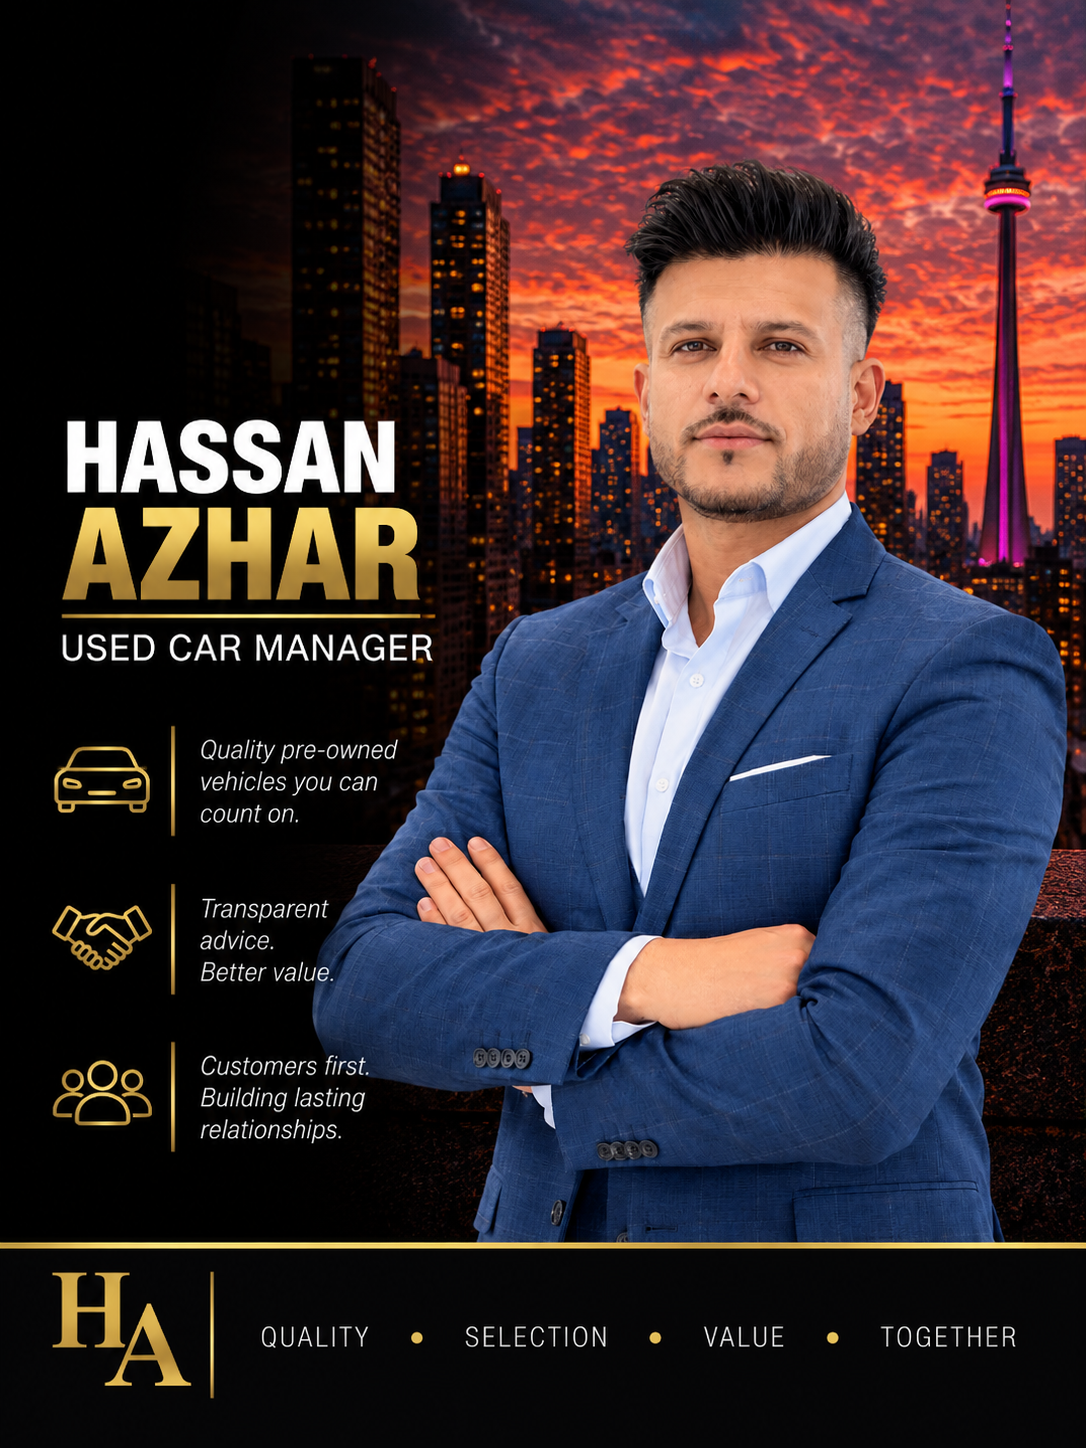
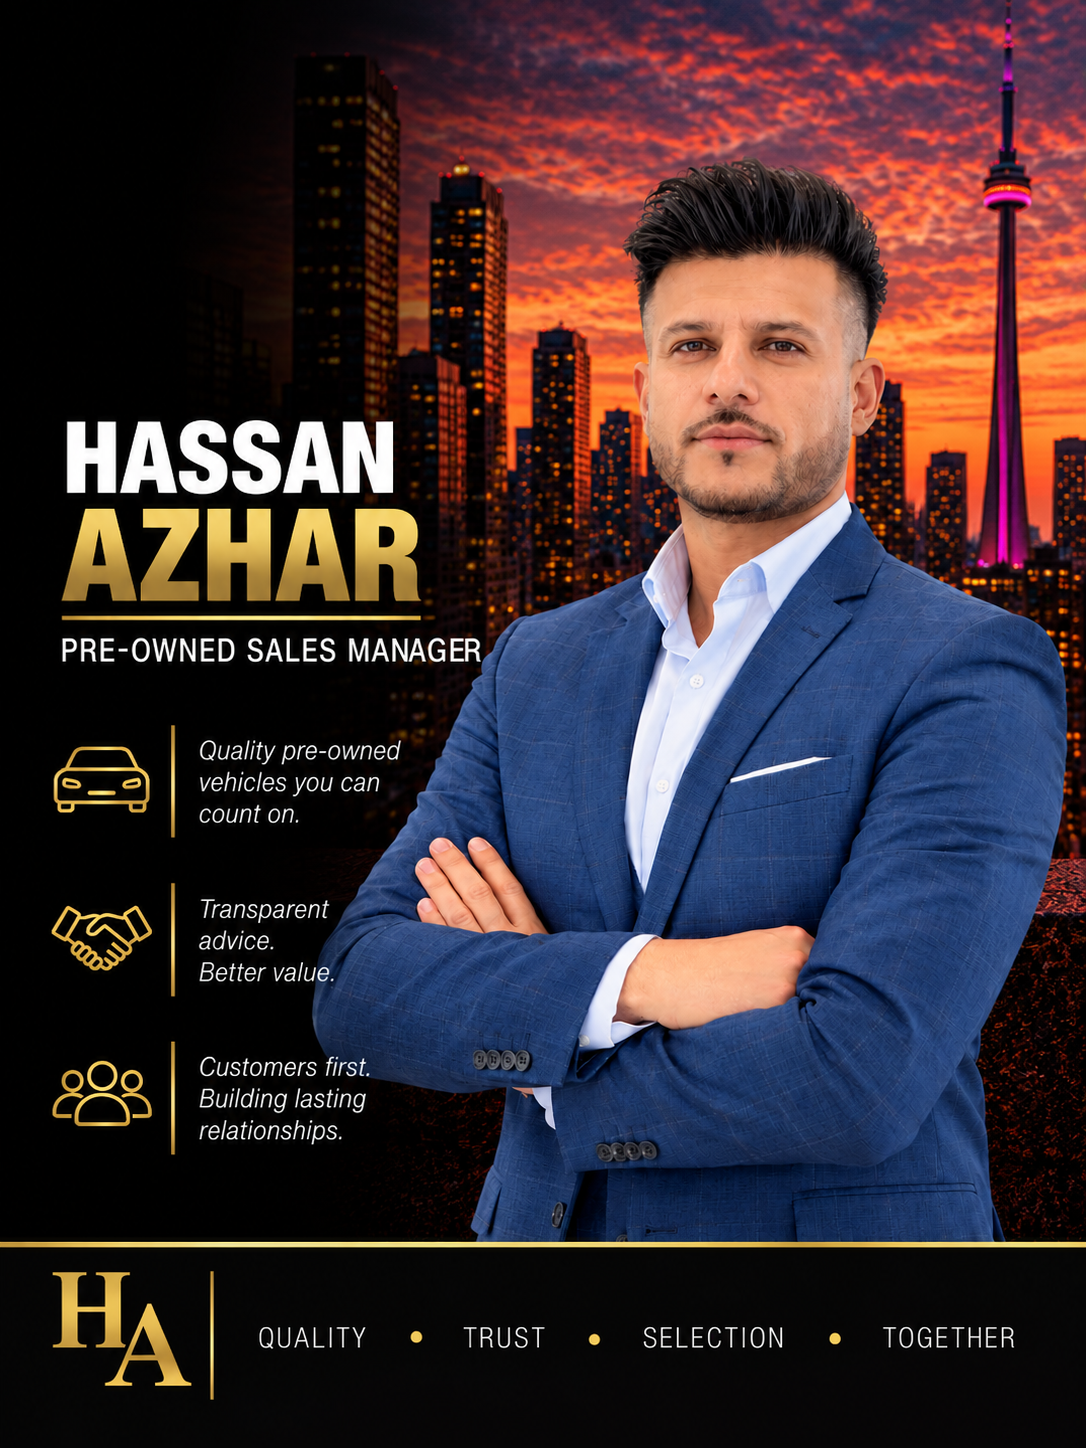
Hassan Azhar is Pre-Owned Sales Manager; new flyer
Title corrected from Used Car Manager to Pre-Owned Sales Manager, per a
replacement flyer. Same person, same desk -- the first flyer carried the
older wording.

Photo replaced with the new flyer. The png and the webp were BOTH
regenerated: per Decisions.md, swapping only the png silently keeps
serving the stale webp, since the pages reference the webp exclusively.
New flyer is 1086x1448, the house 3:4 again, so the 800px webp lands on
800x1067 with no crop -- unchanged from the previous photo's geometry,
so no row-stretch risk.

His position is untouched: still second in 02 — Sales Management, after
Mitchell Cadesky. Roster still 35 across 12 departments.

team-edealer.* regenerated with node build-edealer.mjs; a grep for the
old title across every .html now returns nothing.

diff --git a/team-edealer.embed.html b/team-edealer.embed.html
@@ -78,7 +78,7 @@
               <div class="gmc-img"><img src="https://golden-mile-team-page.pages.dev/team-photos/Hassan%20Azhar.webp" alt="Hassan Azhar" loading="lazy" width="800" height="1067"></div>
               <div class="gmc-details">
                 <div class="gmc-name">Hassan Azhar</div>
-                <div class="gmc-title">Used Car Manager</div>
+                <div class="gmc-title">Pre-Owned Sales Manager</div>
               <ul class="gmc-contact">
                 <li><span class="gmc-ico gmc-ico-phone"></span><span>Ext. 2308</span></li>
                 <li><span class="gmc-ico gmc-ico-mail"></span><a href="mailto:hassan@goldenmilechrysler.ca">hassan@goldenmilechrysler.ca</a></li>

diff --git a/team-edealer.html b/team-edealer.html
@@ -78,7 +78,7 @@
               <div class="gmc-img"><img src="https://golden-mile-team-page.pages.dev/team-photos/Hassan%20Azhar.webp" alt="Hassan Azhar" loading="lazy" width="800" height="1067"></div>
               <div class="gmc-details">
                 <div class="gmc-name">Hassan Azhar</div>
-                <div class="gmc-title">Used Car Manager</div>
+                <div class="gmc-title">Pre-Owned Sales Manager</div>
               <ul class="gmc-contact">
                 <li><span class="gmc-ico gmc-ico-phone"></span><span>Ext. 2308</span></li>
                 <li><span class="gmc-ico gmc-ico-mail"></span><a href="mailto:hassan@goldenmilechrysler.ca">hassan@goldenmilechrysler.ca</a></li>

diff --git a/team-d2c.html b/team-d2c.html
@@ -94,7 +94,7 @@
           <div class="staff-photo-wrap"><img src="https://golden-mile-team-page.pages.dev/team-photos/Hassan%20Azhar.webp" alt="Hassan Azhar" class="staff-photo"></div>
           <div class="staff-info">
             <h3 class="staff-name">Hassan Azhar</h3>
-            <p class="staff-role">Used Car Manager</p>
+            <p class="staff-role">Pre-Owned Sales Manager</p>
             <hr class="staff-divider">
             <p class="staff-contact"><i class="fas fa-phone icon"></i>Ext. 2308</p>
             <p class="staff-contact"><i class="fas fa-envelope icon"></i><a href="mailto:hassan@goldenmilechrysler.ca">hassan@goldenmilechrysler.ca</a></p>

diff --git a/team-edealer.local.html b/team-edealer.local.html
@@ -87,7 +87,7 @@
               <div class="gmc-img"><img src="team-photos/Hassan%20Azhar.webp" alt="Hassan Azhar" loading="lazy" width="800" height="1067"></div>
               <div class="gmc-details">
                 <div class="gmc-name">Hassan Azhar</div>
-                <div class="gmc-title">Used Car Manager</div>
+                <div class="gmc-title">Pre-Owned Sales Manager</div>
               <ul class="gmc-contact">
                 <li><span class="gmc-ico gmc-ico-phone"></span><span>Ext. 2308</span></li>
                 <li><span class="gmc-ico gmc-ico-mail"></span><a href="mailto:hassan@goldenmilechrysler.ca">hassan@goldenmilechrysler.ca</a></li>

diff --git a/team.html b/team.html
@@ -284,7 +284,7 @@
         <div class="staff-photo-wrap"><img src="team-photos/Hassan%20Azhar.webp" alt="Hassan Azhar" class="staff-photo"></div>
         <div class="staff-info">
           <h3 class="staff-name">Hassan Azhar</h3>
-          <p class="staff-role">Used Car Manager</p>
+          <p class="staff-role">Pre-Owned Sales Manager</p>
           <hr class="staff-divider">
           <p class="staff-contact"><i class="fas fa-phone icon"></i>Ext. 2308</p>
           <p class="staff-contact"><i class="fas fa-envelope icon"></i><a href="mailto:hassan@goldenmilechrysler.ca">hassan@goldenmilechrysler.ca</a></p>
